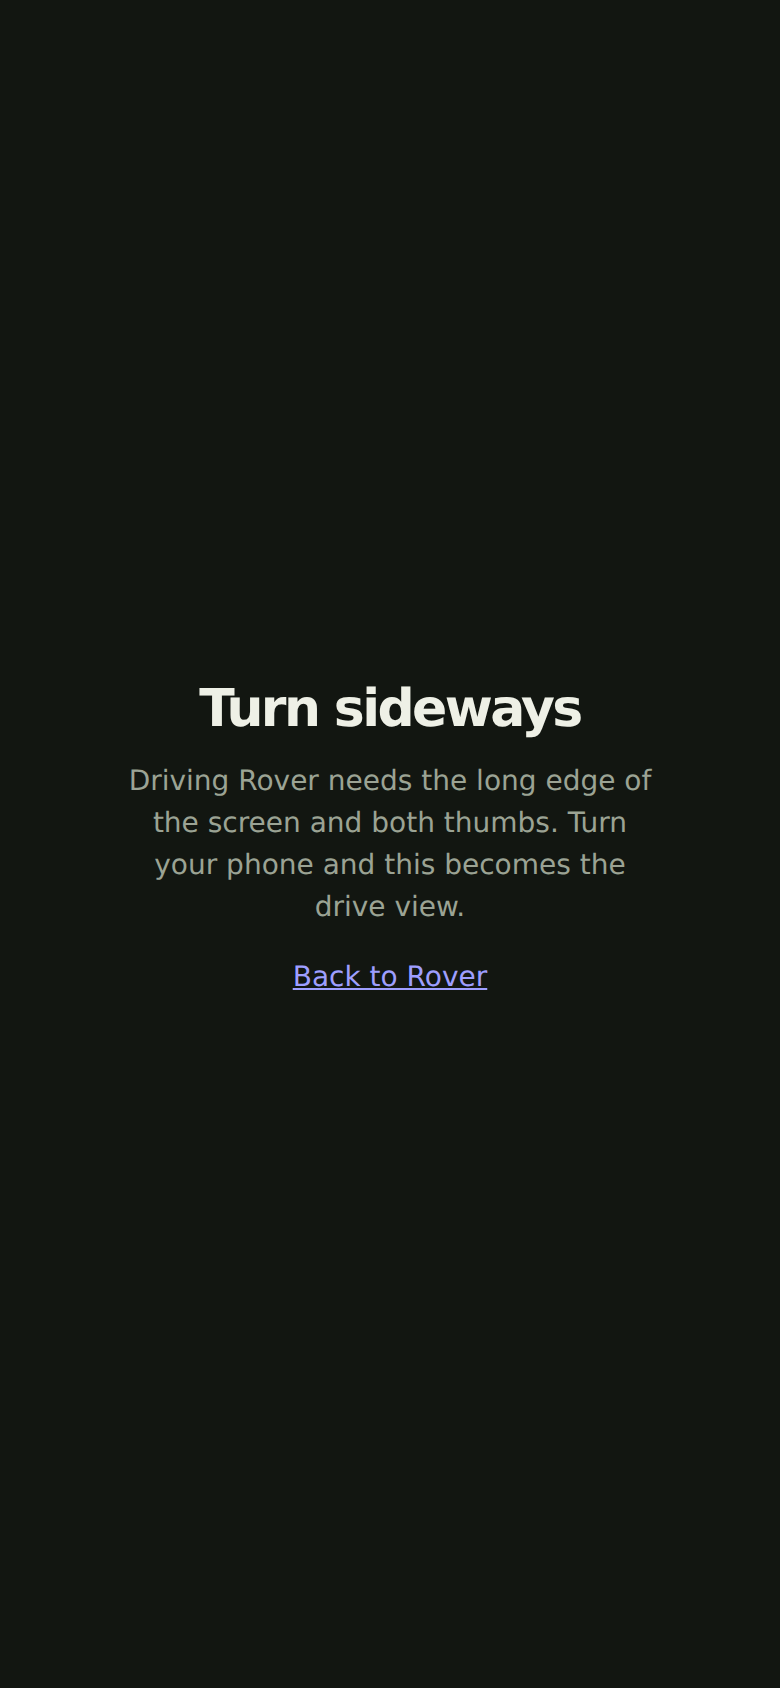
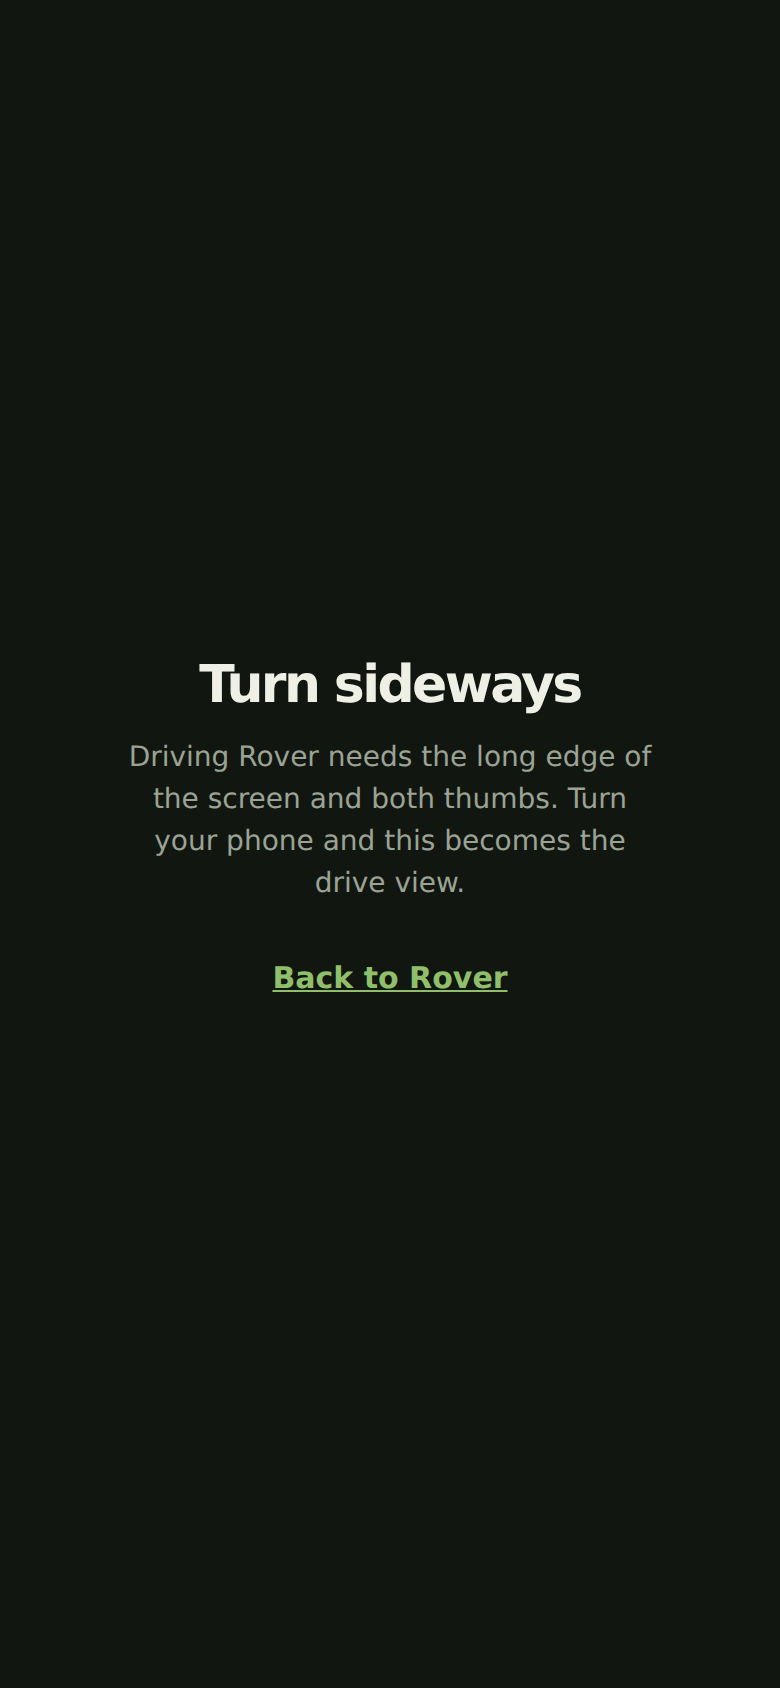
Style the one bare link left in the app
The drive page's portrait prompt ends with "Back to Rover", and it was
rendering in the browser's default link blue -- purple once visited -- on a
near-black ground. It is the only `<a>` in the app that belongs to no
component, which is why no global `a` rule had ever been needed and why this
one went unnoticed: every other link is coloured by the thing it sits in.

It is also the single control on that screen, so it gets a real target rather
than a 14px line of text: 44px minimum, which is what a thumb should be asked
to hit. The underline stays, because at this size and colour it is the only
thing marking it as a link.

Found in the dark-theme screenshot.

Claude-Session: https://claude.ai/code/session_01KgmQrVuaAGmKyaioEr7d7t

Changed region(s): [[0.1538, 0.3697, 0.8308, 0.5853]]

diff --git a/src/kona_tracker/web/static/app.css b/src/kona_tracker/web/static/app.css
@@ -803,6 +803,18 @@ body.activity-page { overscroll-behavior-y: contain; }
   padding: 24px; text-align: center; }
 .drive-turn .d { font-size: 26px; }
 .drive-turn p { margin: 0; color: var(--ink2); font-size: 14px; line-height: 1.5; max-width: 30ch; }
+/* The only bare `<a>` left in the app, and it showed: on the portrait prompt
+   it rendered in the browser's default link blue -- purple once visited --
+   on a near-black ground. Nothing else needed a global `a` rule because every
+   other link in this app belongs to a component that colours it; this one
+   belongs to nothing.
+
+   It is also the single control on that screen, so it gets a target rather
+   than a 14px line of text: 44px is the minimum a thumb should be asked to
+   hit, and the underline stays because it is the only thing marking it as a
+   link at all. Found in the dark-theme screenshot, 2026-09-15. */
+.drive-turn a { display: inline-block; min-height: 44px; padding: 11px 4px;
+  color: var(--t4); font-size: 15px; font-weight: 600; }
 .drive { display: none; }
 @media (orientation: landscape) {
   .drive-turn { display: none; }
